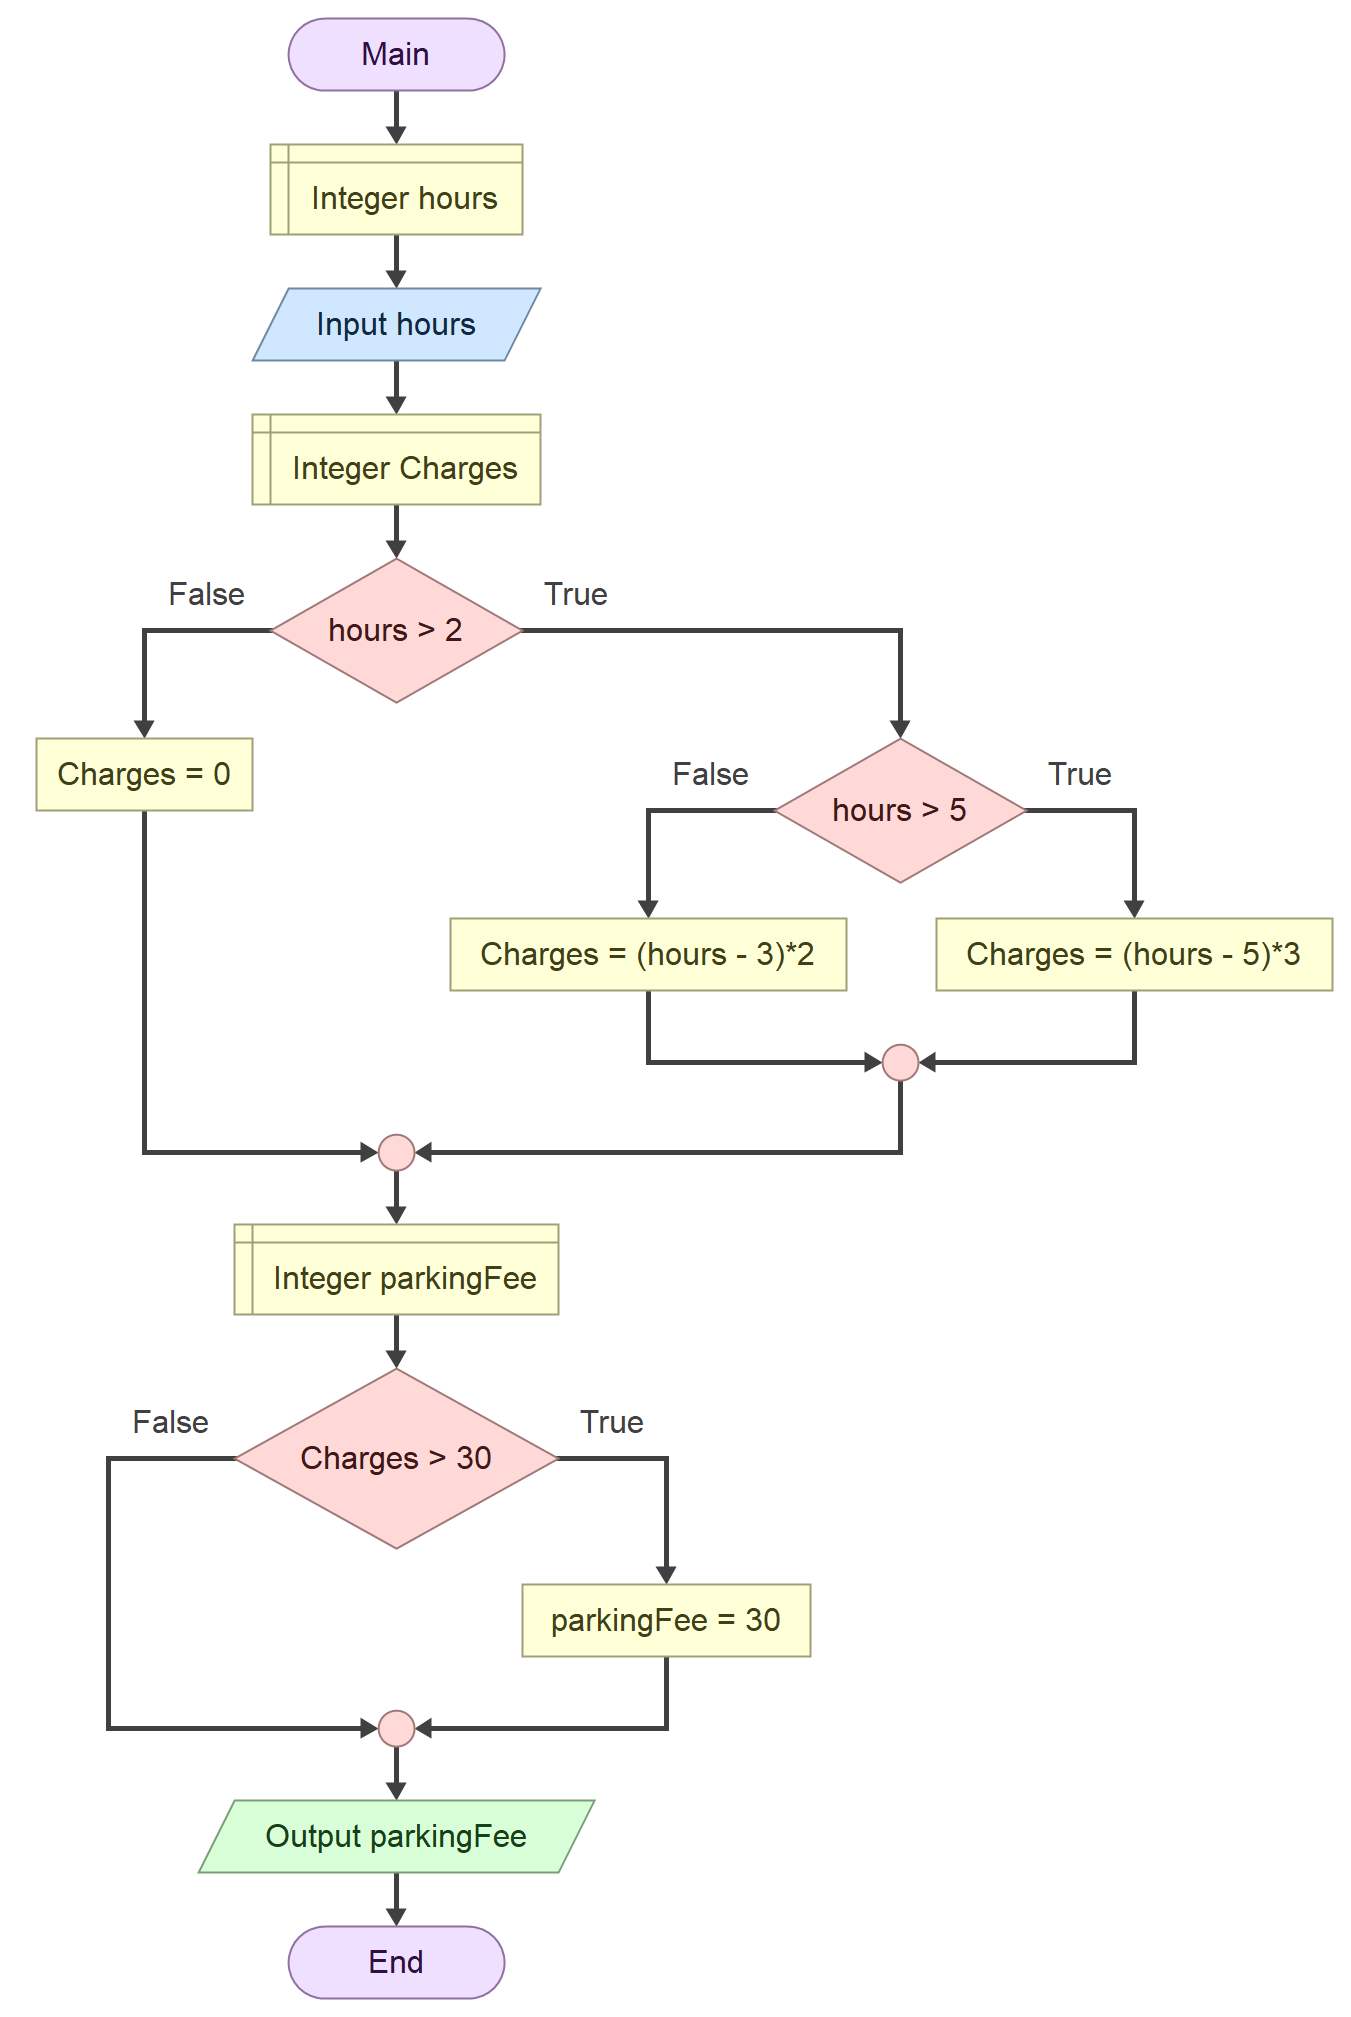
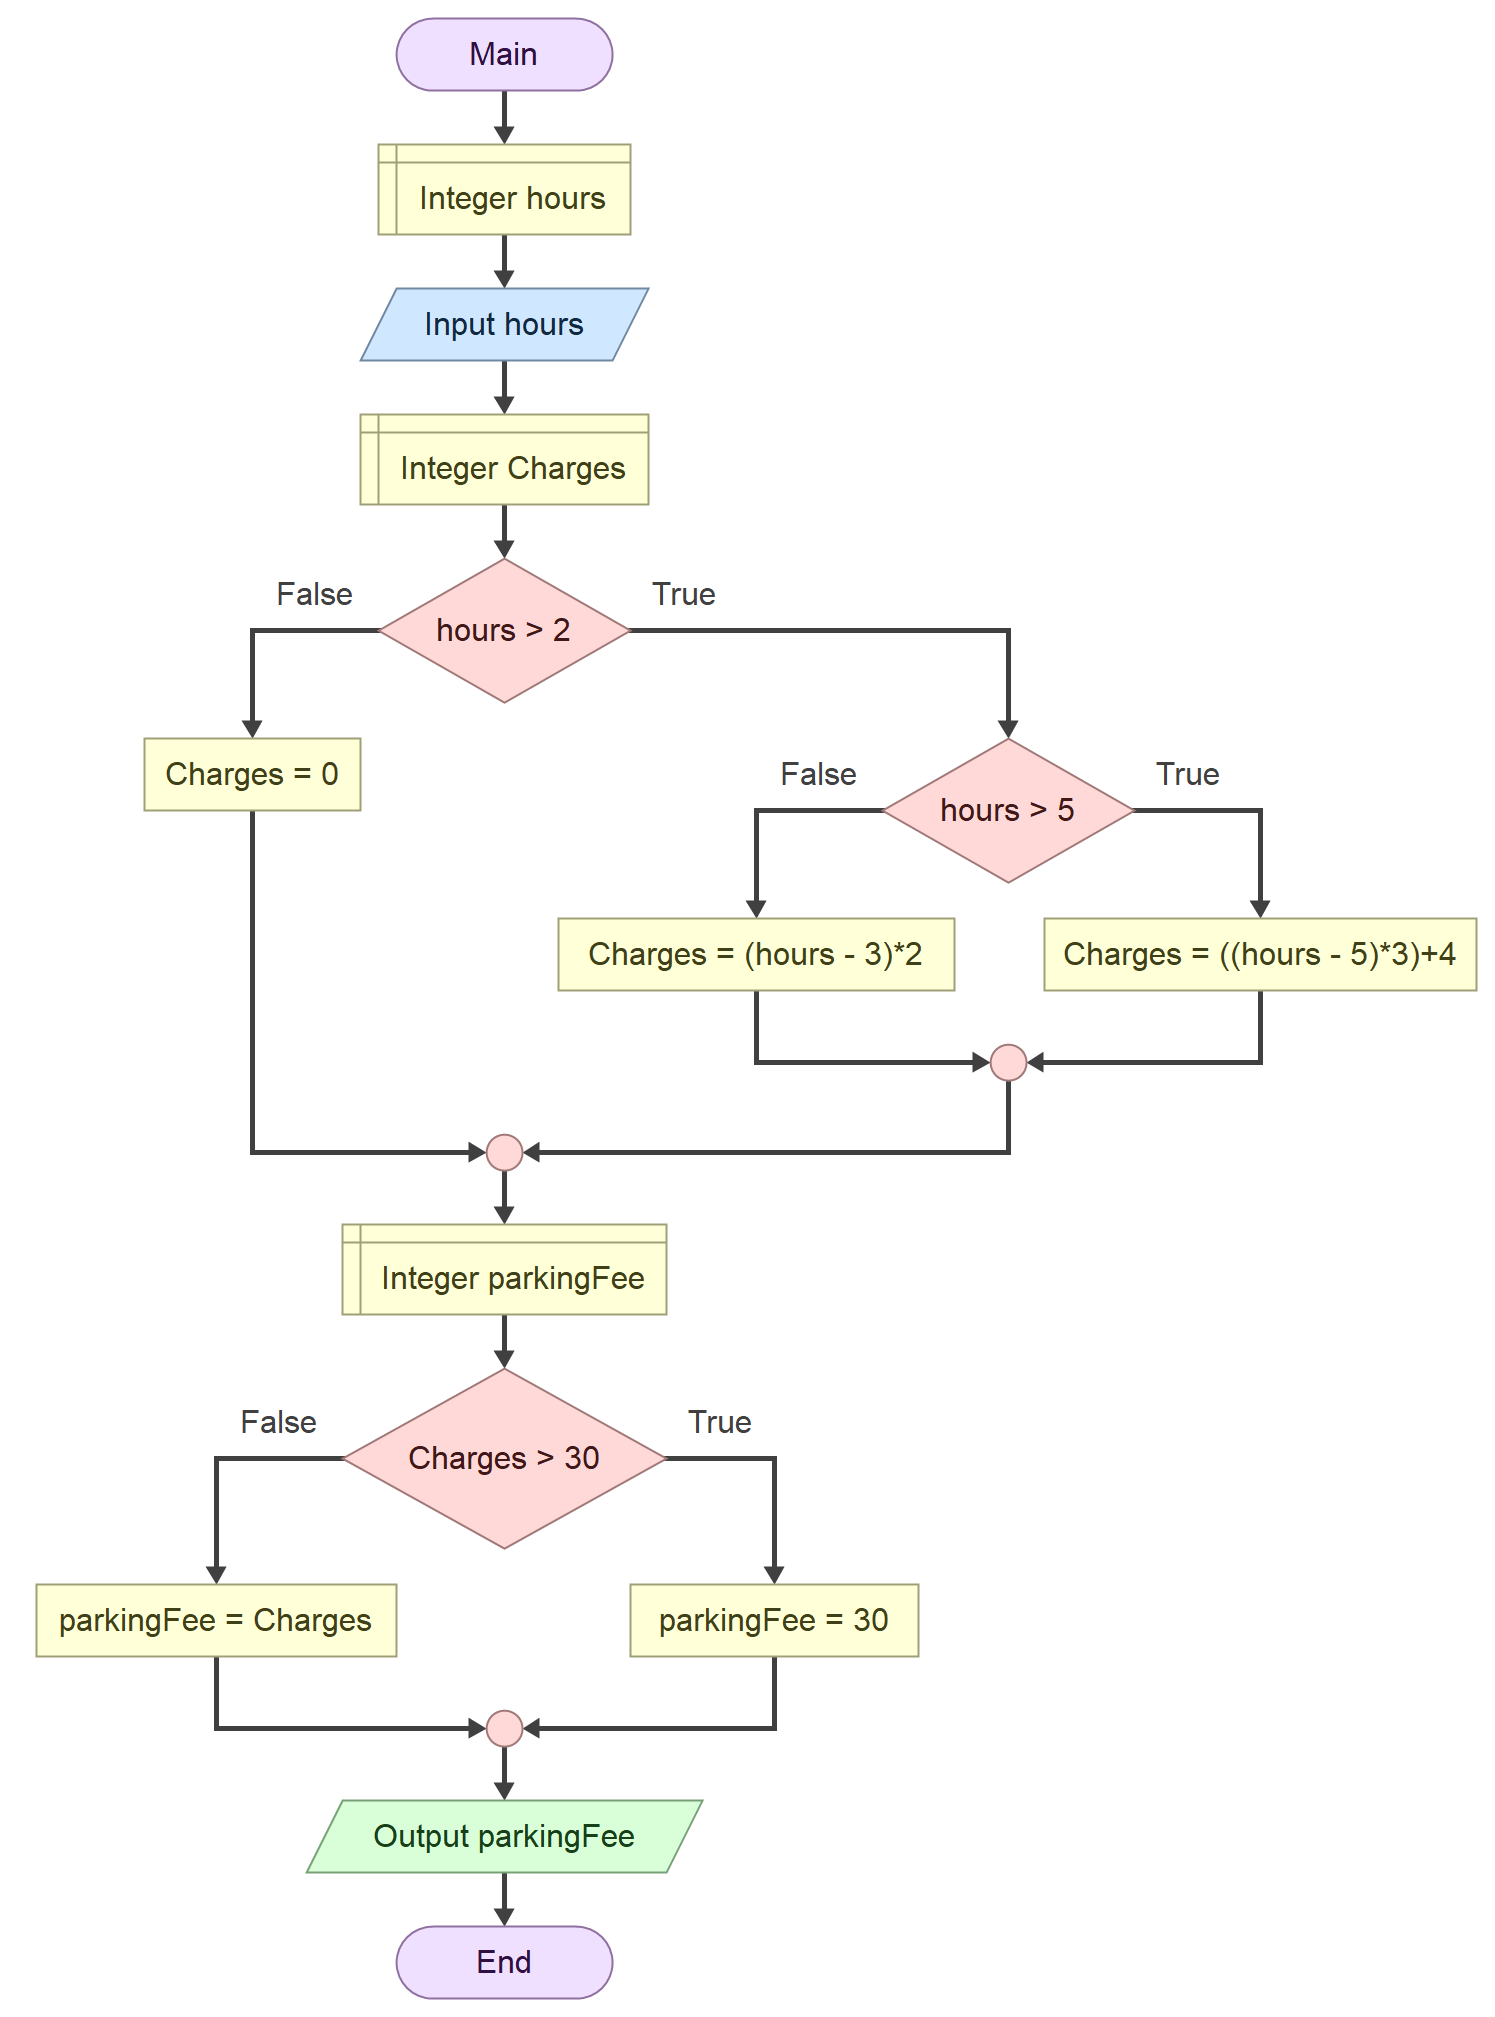
finiah lab

diff --git a/labs/lab04/exercise3/lab-4-3.py b/labs/lab04/exercise3/lab-4-3.py
@@ -1,11 +1,13 @@
 hours = int(input())
 if hours > 2:
     if hours > 5:
-        charges = hours - 5 * 3
+        charges = hours - 5 * 3 + 4
     else:
         charges = hours - 3 * 2
 else:
     charges = 0
 if charges > 30:
     parkingFee = 30
+else:
+    parkingFee = charges
 print(parkingFee)
